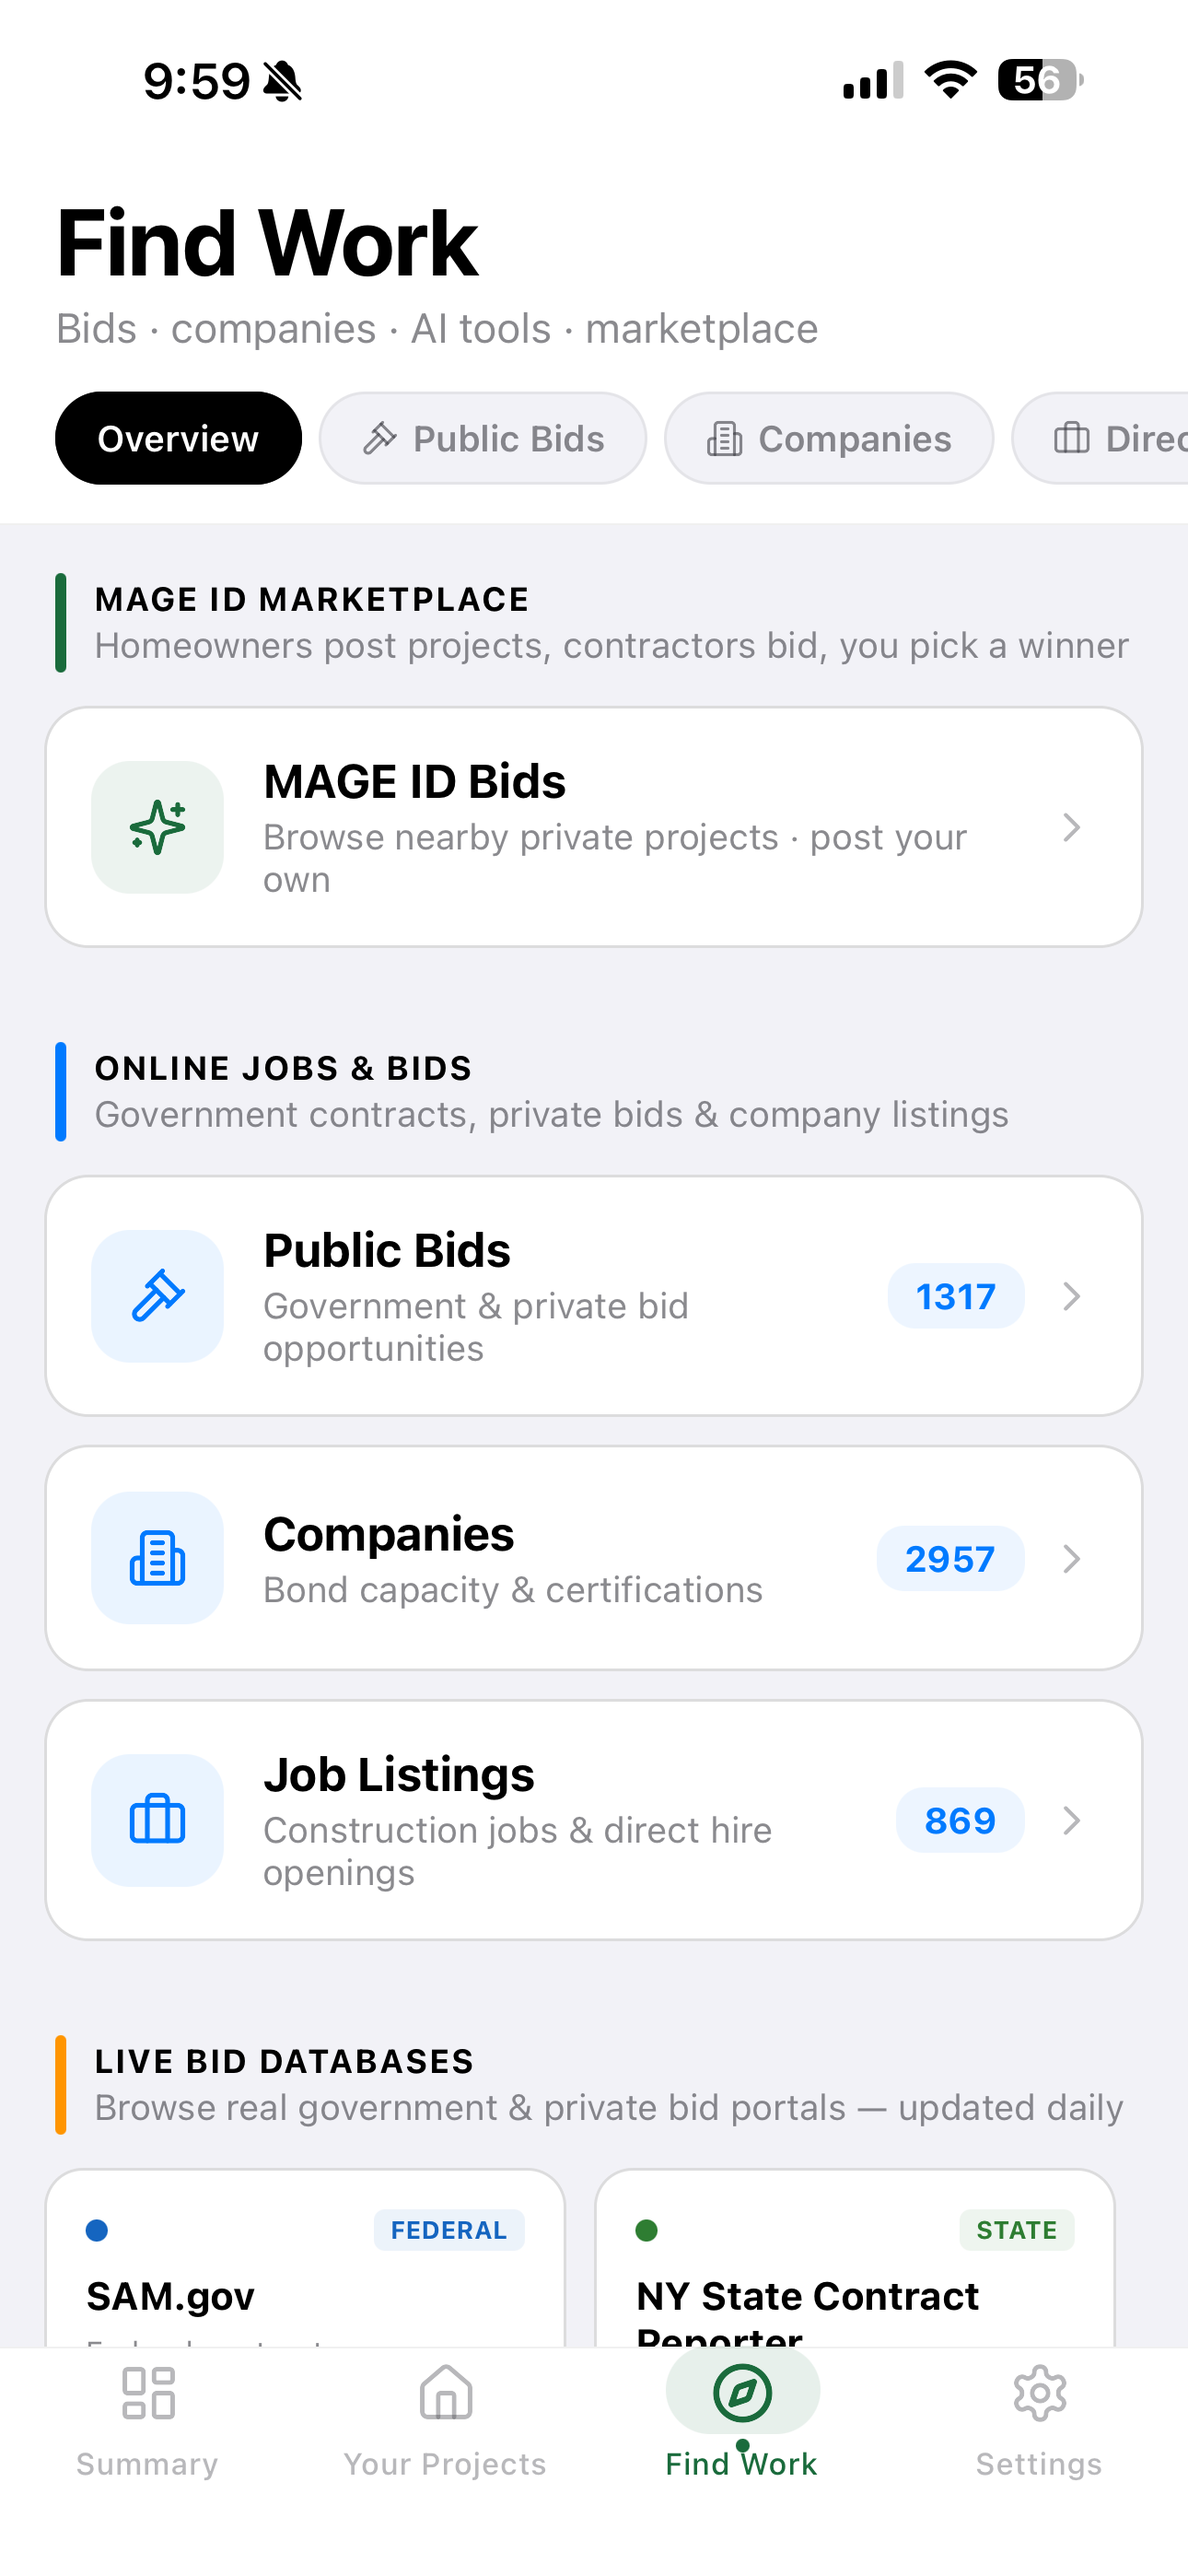
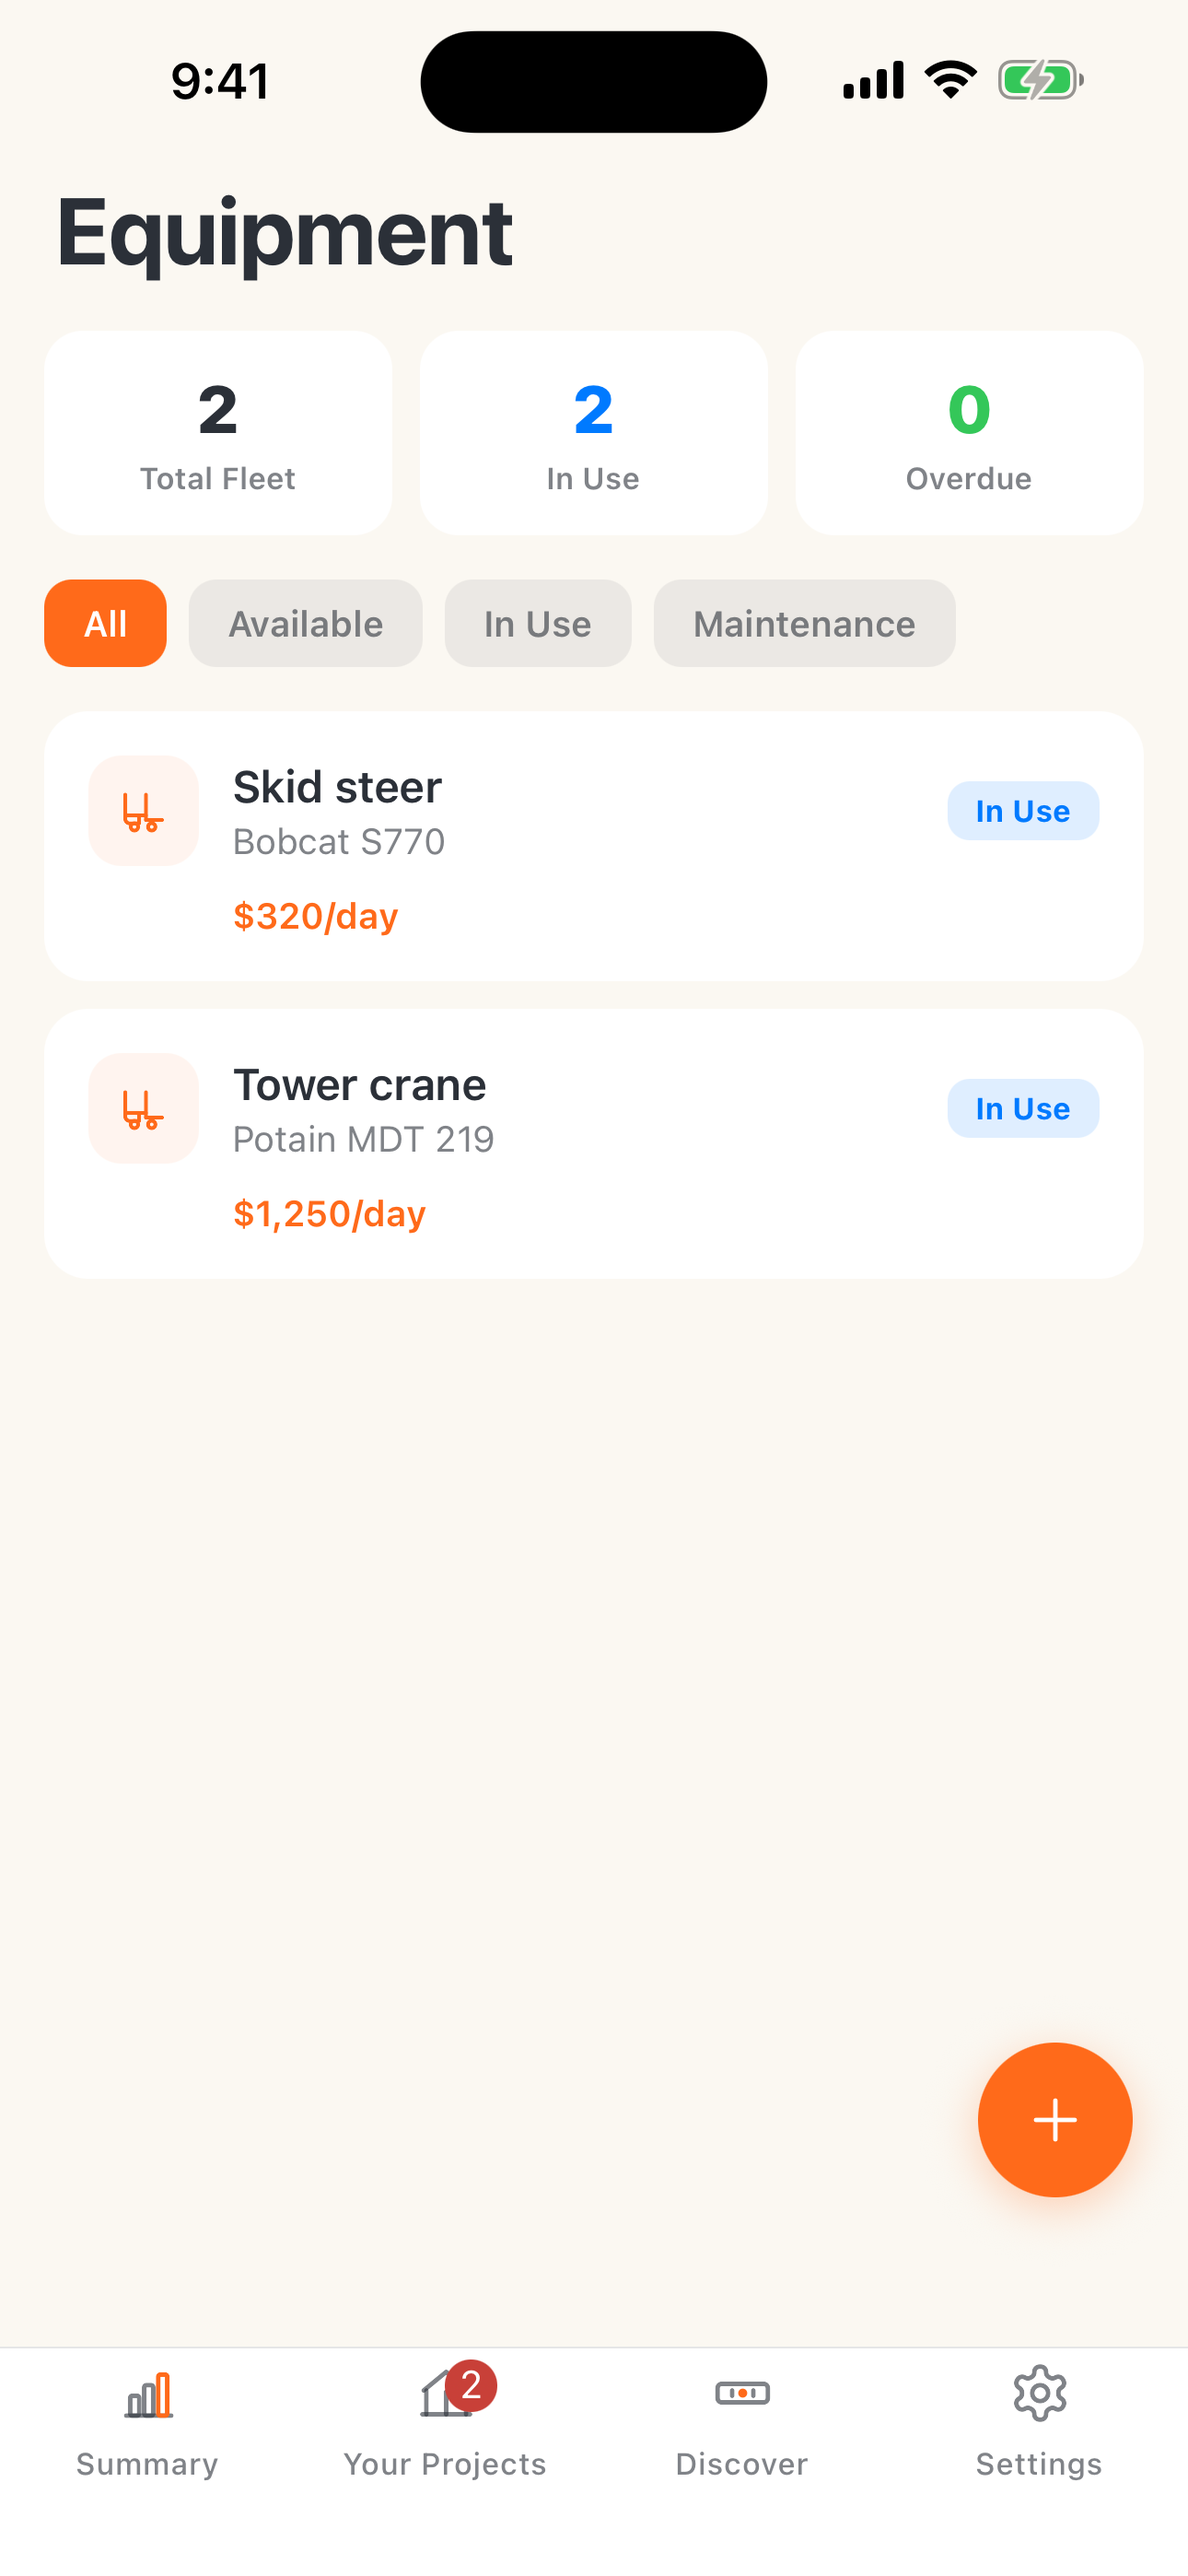
Marketing: fix Equipment section — real screenshot + honest copy (#70)
The marketplace page's "Equipment rental" slot (14-marketplace.png) showed
the unrelated "Find Work" Discover overview, and the copy promised a
book-from-local-yards rental marketplace the app doesn't have.

- Replace 14-marketplace.png with the actual Equipment screen (owned +
  rented fleet: daily rates, status filters, maintenance/overdue flags).
- Rewrite the Equipment section, hero line, and meta descriptions to
  describe what the feature really does — tracking owned + rented gear —
  instead of a browse/compare/book flow that isn't built.

diff --git a/marketing/features/marketplace.html b/marketing/features/marketplace.html
@@ -5,12 +5,12 @@
   <meta name="viewport" content="width=device-width, initial-scale=1, viewport-fit=cover" />
   <title>Marketplace — Suppliers, Materials, Equipment | MAGE ID</title>
   <link rel="canonical" href="https://mageid.app/features/marketplace.html" />
-  <meta name="description" content="Local supplier directory, live material pricing, and equipment rental — built into the app. Nine major metros indexed, prices refreshed weekly." />
+  <meta name="description" content="Local supplier directory, live material pricing, and equipment tracking — built into the app. Nine major metros indexed, prices refreshed weekly." />
   <meta name="theme-color" content="#0B0D10" />
 
   <meta property="og:type" content="website" />
   <meta property="og:title" content="Marketplace — Suppliers, Materials, Equipment | MAGE ID" />
-  <meta property="og:description" content="Local supplier directory, live material pricing, equipment rental — built into the app." />
+  <meta property="og:description" content="Local supplier directory, live material pricing, equipment tracking — built into the app." />
   <meta property="og:url" content="https://mageid.app/features/marketplace.html" />
   <meta property="og:site_name" content="MAGE ID" />
   <meta property="og:image" content="https://mageid.app/assets/og-image.png" />
@@ -45,7 +45,7 @@
       <h1>Suppliers, materials, equipment — <br>in the pocket, in the moment.</h1>
       <p>
         Nine major metros indexed. Live material pricing. Local supplier directory with reviews.
-        Equipment rentals you can book from the field without opening three different apps.
+        Plus every owned or rented machine tracked in one place — daily rates, status, and which job it's on.
       </p>
     </section>
 
@@ -95,25 +95,26 @@
       </div>
     </section>
 
-    <!-- Equipment Rental -->
+    <!-- Equipment Tracking -->
     <section class="section wrap-wide">
       <div class="feature-row">
         <div>
-          <h2>Equipment rentals — bookable.</h2>
+          <h2>Equipment — owned and rented, tracked.</h2>
           <p>
-            Excavator for Thursday? Scissor lift for next week? Find, compare, and book rental
-            equipment from local yards without leaving the app. Rental cost flows into your
-            project budget automatically.
+            Every machine in one list, whether you own it or rented it for the week. See each
+            piece's daily rate, whether it's available, in use, or down for maintenance, and which
+            job it's on — so nothing sits idle or slips past a service date.
           </p>
           <ul>
-            <li>Categories: earthmoving, lifts, compaction, pumps, generators, hand tools</li>
-            <li>Price comparison across local rental yards</li>
-            <li>Reserve and track rentals — pickup, return, billing</li>
-            <li>Rental cost auto-added to project's equipment line</li>
-            <li>Damage / deposit tracking</li>
+            <li>Owned + rented equipment in one fleet view</li>
+            <li>Daily rate on every machine</li>
+            <li>Status at a glance: available, in use, maintenance</li>
+            <li>See which job each piece is assigned to</li>
+            <li>Maintenance schedule with overdue-service flags</li>
+            <li>Fleet totals: how many pieces, how many in use</li>
           </ul>
         </div>
-        <div class="screenshot phone" data-label="Equipment rental · Mini excavator"><img src="/screenshots/screens/14-marketplace.png" alt="Equipment rental marketplace" /></div>
+        <div class="screenshot phone" data-label="Equipment · Owned + rented gear"><img src="/screenshots/screens/14-marketplace.png" alt="Equipment fleet tracker — owned and rented gear" /></div>
       </div>
     </section>
 
